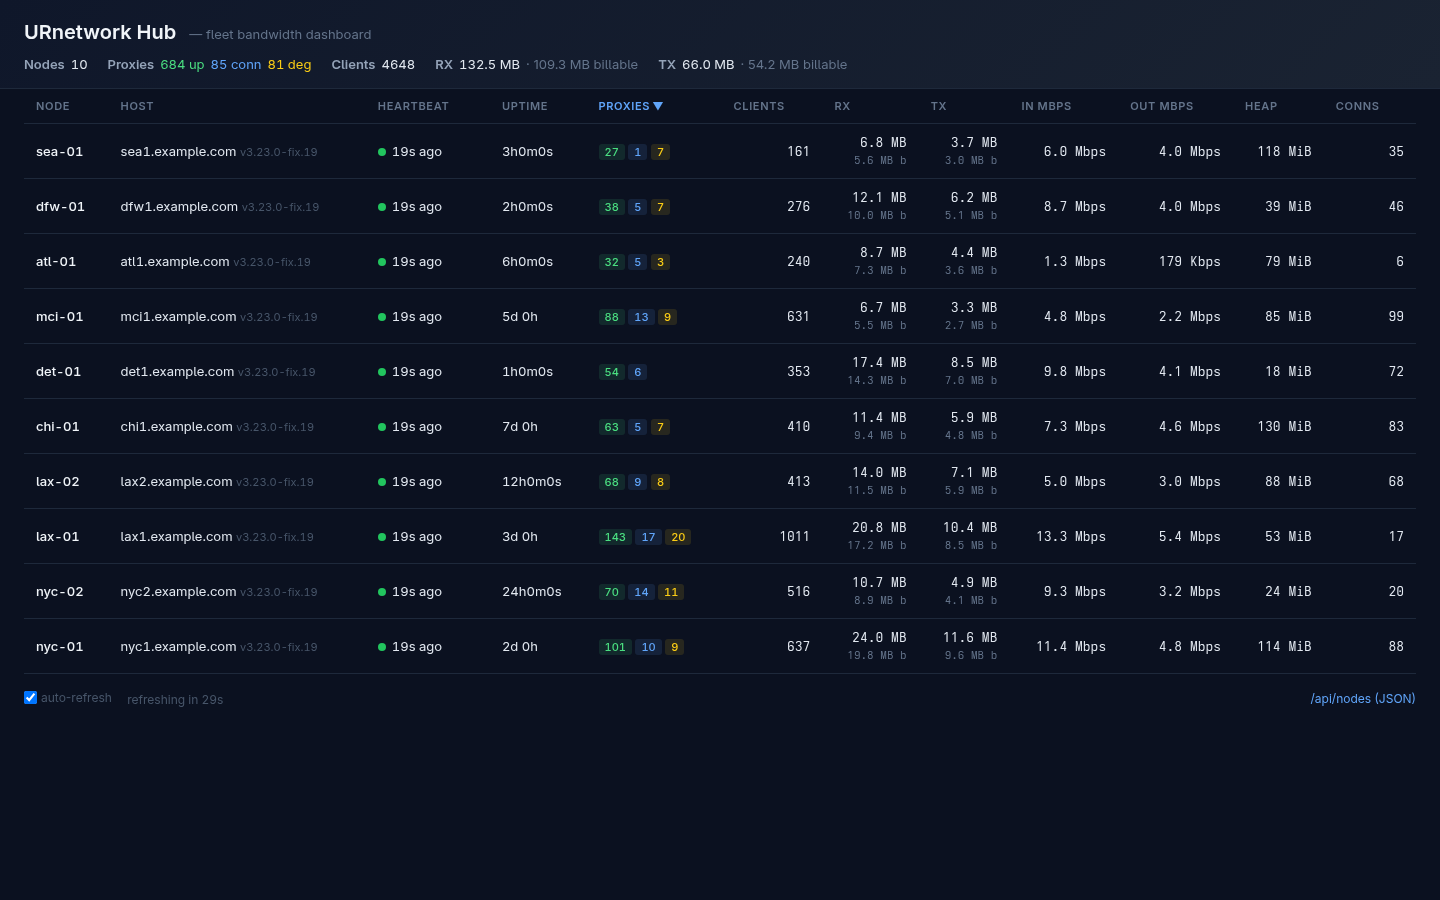
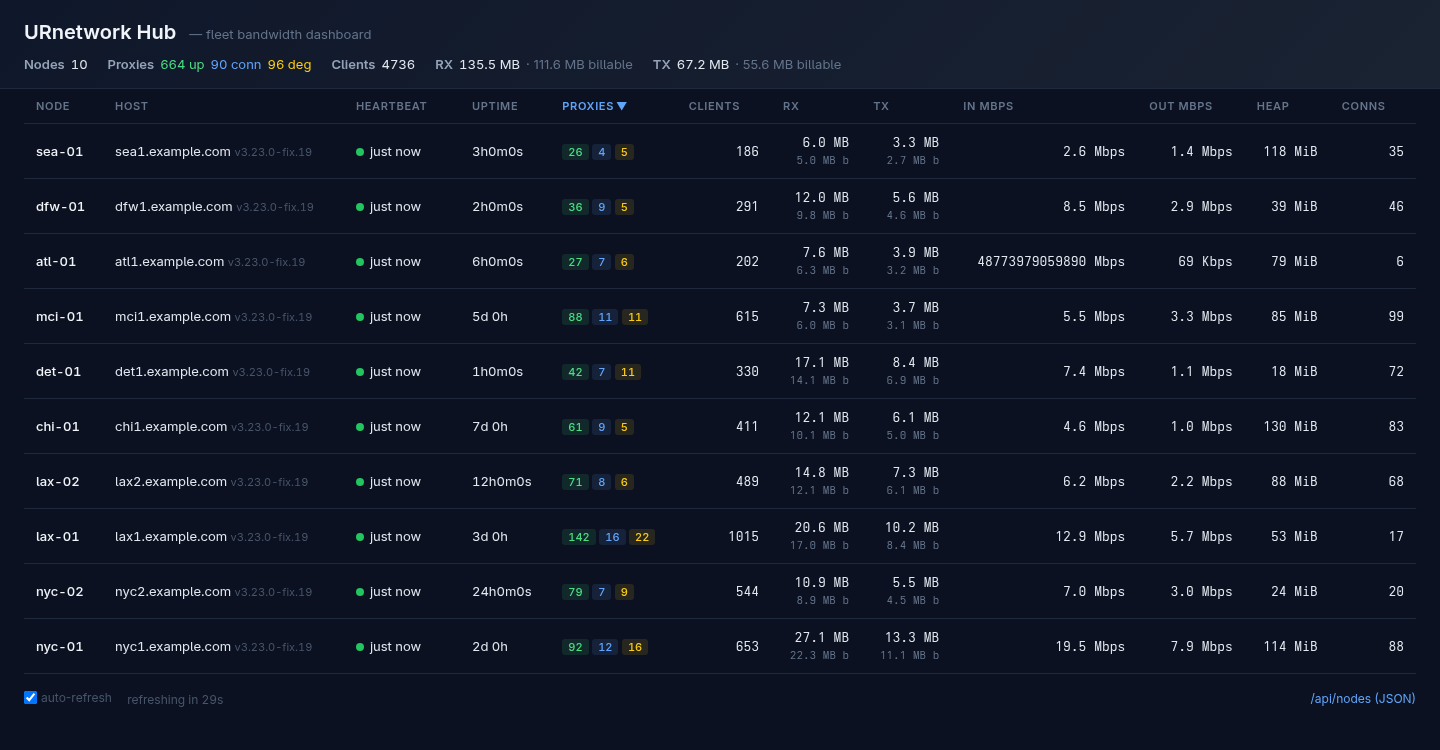
docs: add hub dashboard preview image to README, trim whitespace

diff --git a/README.md b/README.md
@@ -66,6 +66,8 @@ urnet-tools logs
 
 Monitor your entire fleet in real time. The hub aggregates bandwidth reports from all provider nodes and renders an HTML dashboard with traffic rates, billable accounting, per-proxy drilldown, and auto-refresh.
 
+![Hub Dashboard Preview](docs/hub-dashboard-preview.png)
+
 ```sh
 # Run the hub (standalone binary, built from hub/main.go)
 ./hub -addr :8080 -data /var/hub-data
